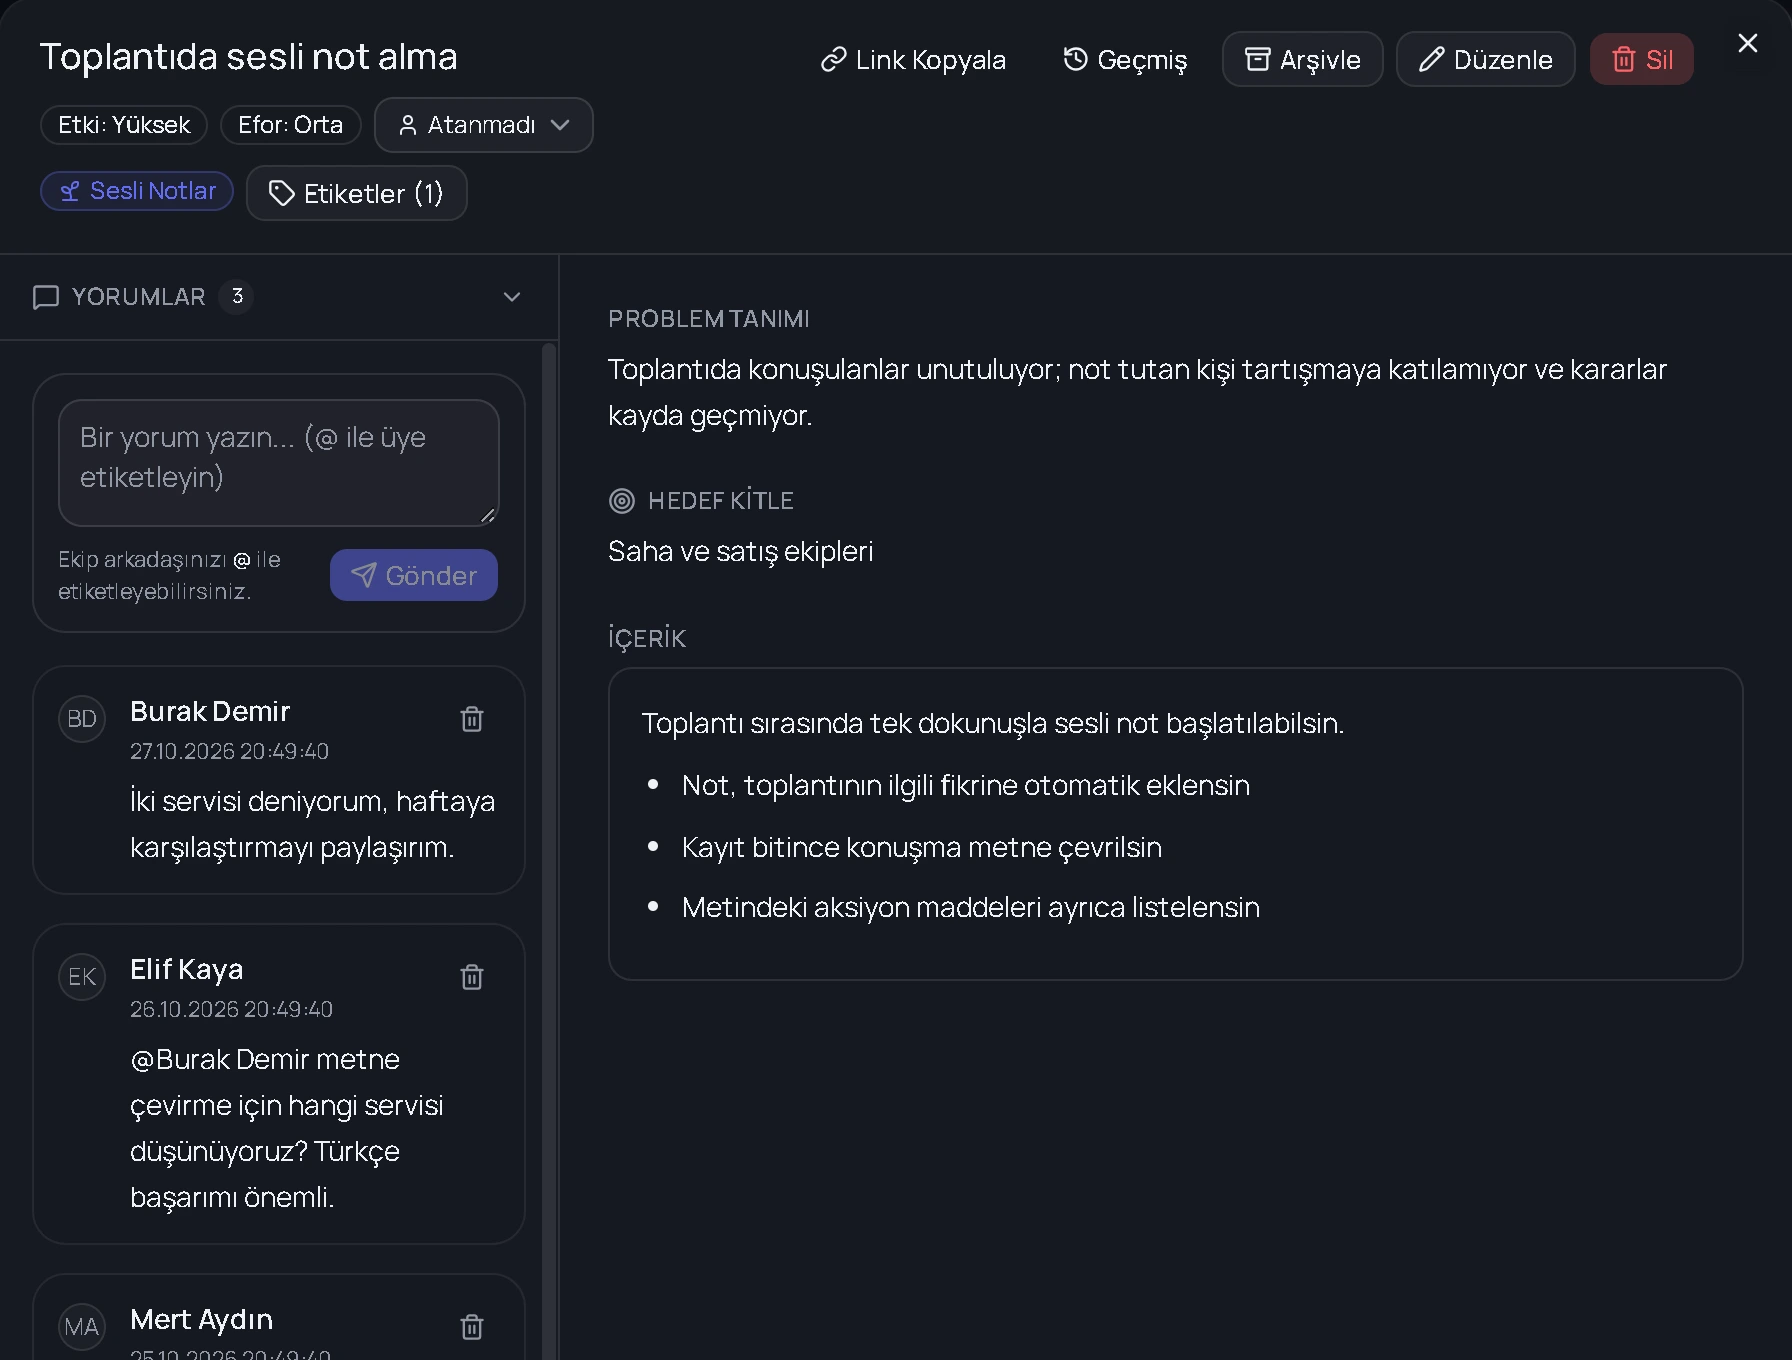
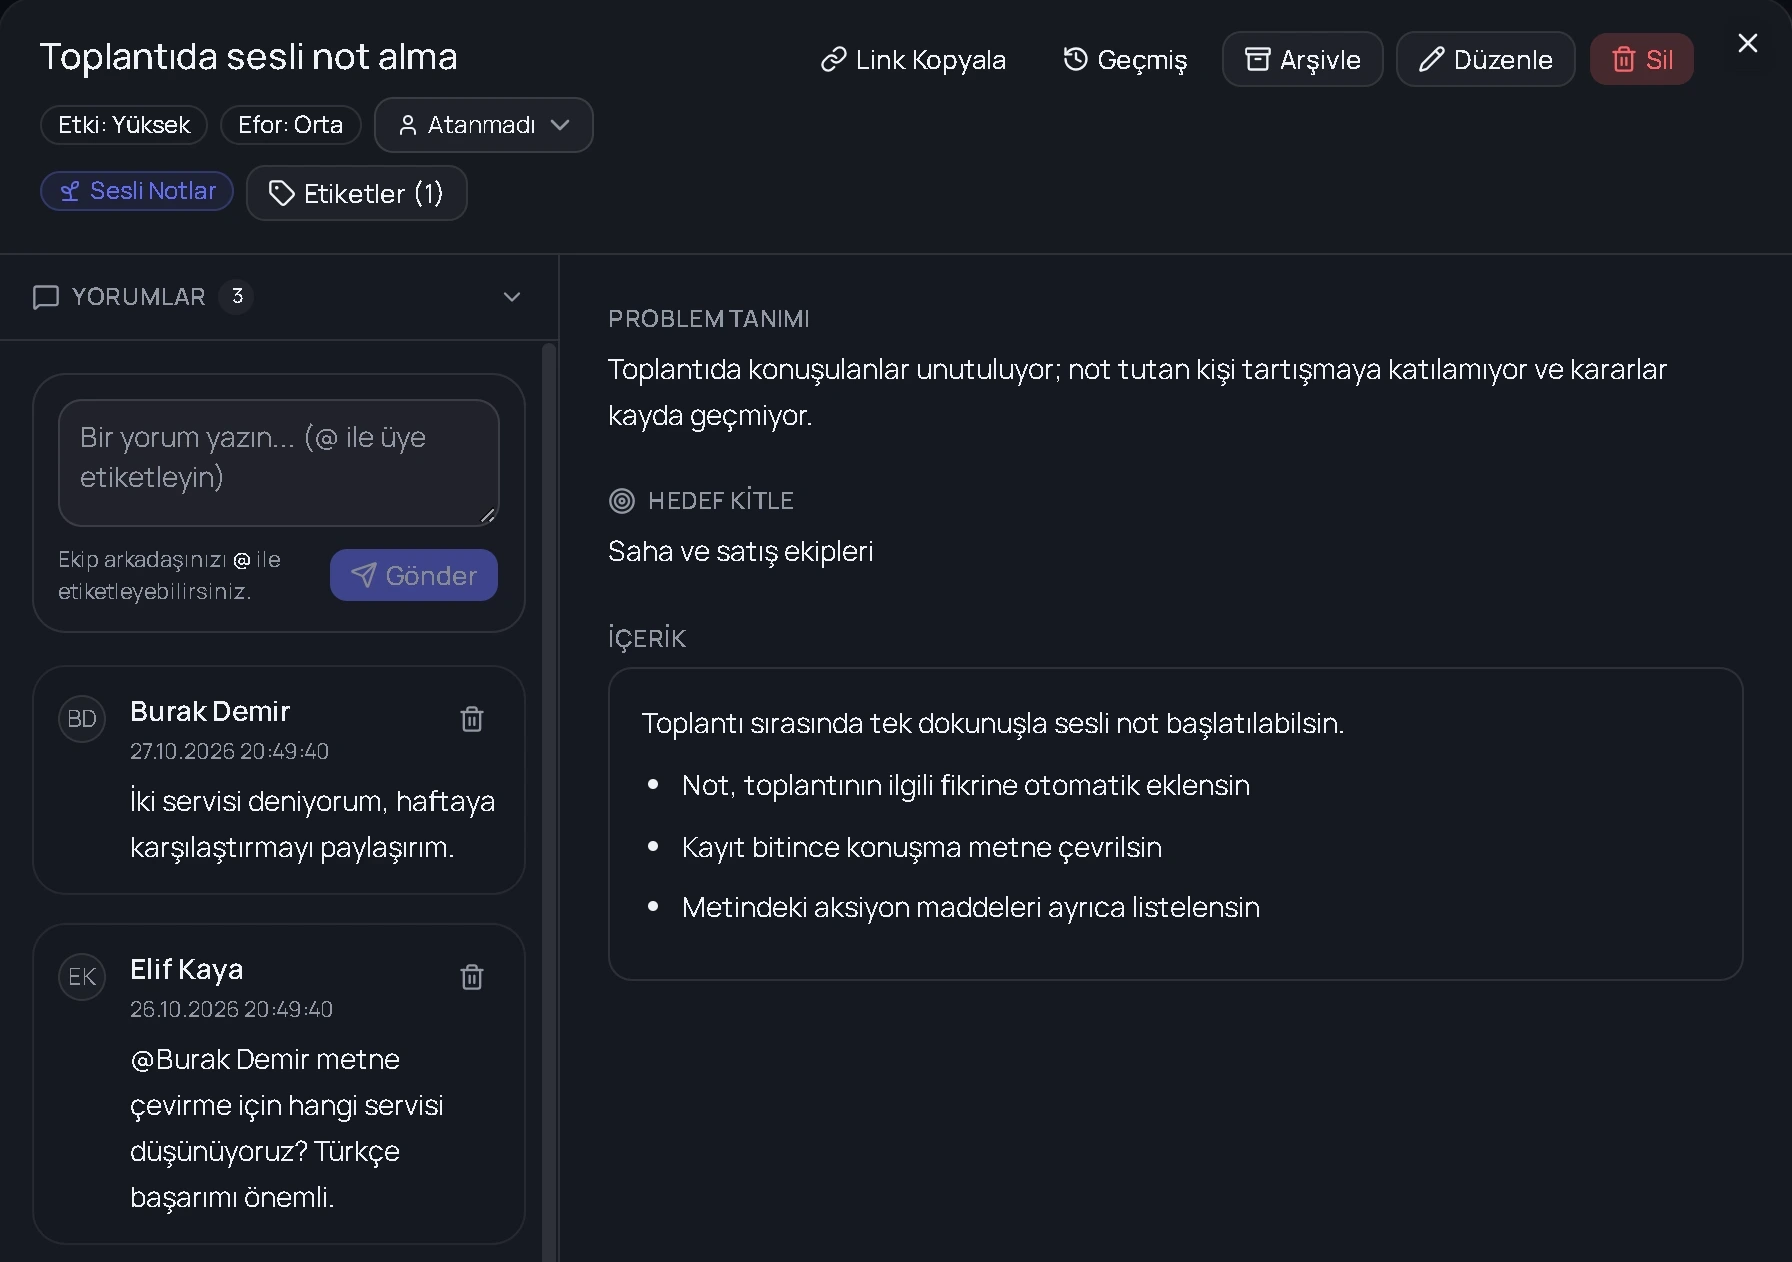
fix: ekip calismasi sekmesindeki gorseli kisalt, diger sekmelerde bosluk kalmasin

diff --git a/components/landing/feature-tabs.tsx b/components/landing/feature-tabs.tsx
@@ -32,8 +32,10 @@ const TABS = [
     light: birlikteLight,
     dark: birlikteDark,
     alt: "Fikir detayı: solda @ ile ekip arkadaşının etiketlendiği yorumlar, sağda problem tanımı, hedef kitle ve içerik.",
-    // Pencere görüntüsü dar; tam genişlikte gereğinden uzun kalıyordu.
-    frame: "mx-auto max-w-[860px]",
+    // Pencere görüntüsü dikey; tam genişlikte diğer sekmelerden çok uzun
+    // kalıp onların altında boşluk bırakıyordu. Bu genişlikte Genel bakış
+    // görüntüsüyle aşağı yukarı aynı yükseklikte.
+    frame: "mx-auto max-w-[740px]",
   },
   {
     label: "Genel bakış",
